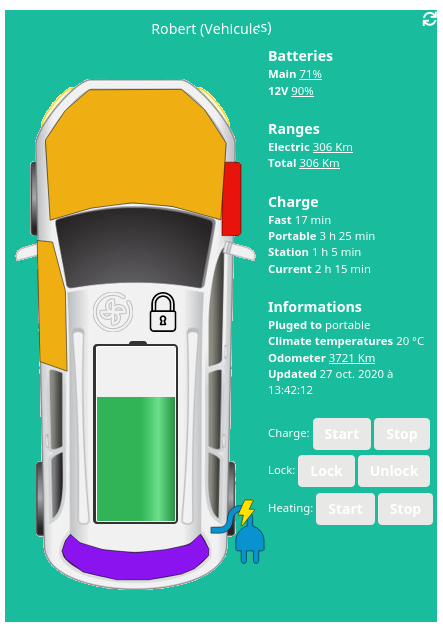
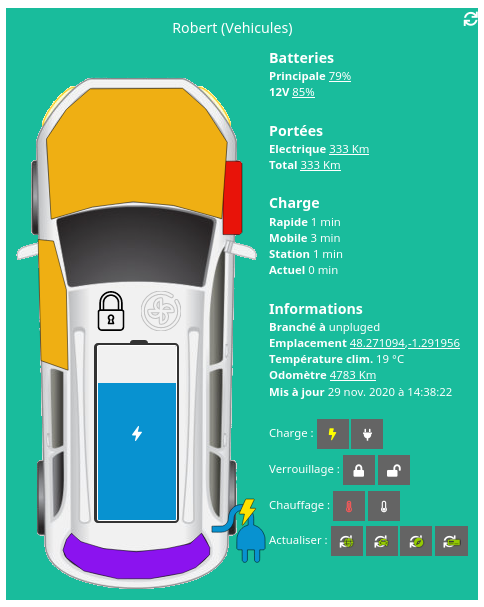
upgrading to 0.45.0

diff --git a/fr_FR/index.md b/fr_FR/index.md
@@ -30,10 +30,10 @@ Pour cette partie vous devez déjà avoir connecté et configurer votre véhicul
 
 Dans la configuration du plugin, entrez les informations nécessaire au forctionnement du plugin: 
 
-- Utilisateur : Le nom de l'utilisateur de UVO
-- Mot de passe : Le mot de passe UVO
+- Utilisateur : L'**email** de l'utilisateur de UVO
+- Mot de passe : Le **mot de passe** UVO
 - Région : La région dans laquelle se trouve votre véhicule
-- Pin : Le code de sécurité de votre véhicule
+- Pin : Le **code de sécurité** de votre véhicule
 
 > Ces informations sont stoqués sur votre Jeedom et sont exclusivement utilisés par le demon UVO dans le cadre de ses interactions avec le system UVO et le véhicule.
 
@@ -63,6 +63,7 @@ Le paramère `Source d'énergie` vous permet de choisir le type de motorisation 
 
 Le paramère `Capacité de la batterie` n'est pas encore utilisé à ce jour.
 
+Le paramètre `Options du widget` permet de configurer les actions visibles sur le widget. En fonction de votre véhicule et des options disponible sur votre forfait UVO, il est possible que toutes ne soient pas disponibles. Vous pouvez donc les désactiver ici.
 
 ### Option d'actualisation des données
 
@@ -168,3 +169,22 @@ Voici un exemple ou:
 - La charge est en cours
 
 ![widget](./medias/widget-vehicle-act.png)
+
+## Problèmes
+
+### Le démon démare quelques secondes puis s'arrète
+
+Il est probable qu'il s'agisse d'un problème d'authentification. Pour en savoir plus, rendez-vous dans l'interface de configuration du plugin et consultez les logs du démon `kiauvo_node`.
+
+Si le texte `'Deamon kiauvo_node started'` n'y apparaît pas, c'est que le démon n'arrive pas à accéder aux serveurs UVO.
+
+Deux messages d'erreurs sont alors possibles : 
+
+`Bad credentials! Could not connect to UVO with user/password` => le nom d'utilisateur ou le mot de passe sont mal configurés.
+`Bad credentials! Could not connect to vehicle with pin` => la valeur du code pin n'est pas correcte.
+
+Assurez vous que l'email de l'utilisateur ainsi que son mot de passe sont correctement renseignés et que le code pin est le bon.
+
+### La position de mon véhicule est NaN, NaN
+
+La valeur d’emplacement est calculée à la création du véhicule, puis régulièrement pour chaque période de temps configurée pour ce véhicule sous le paramètre `Fréquence de mise à jour de la position`. Si ce dernier est à zéro, ou que la période n’est pas encore écoulée, il est possible que la valeur précédente reste. Il est possible de l’actualiser en lançant la commande `rafraîchir la position` ou via le bouton `Actualiser la position` du widget.

diff --git a/version.md b/version.md
@@ -1,1 +1,1 @@
-0.43.0
+0.45.0
